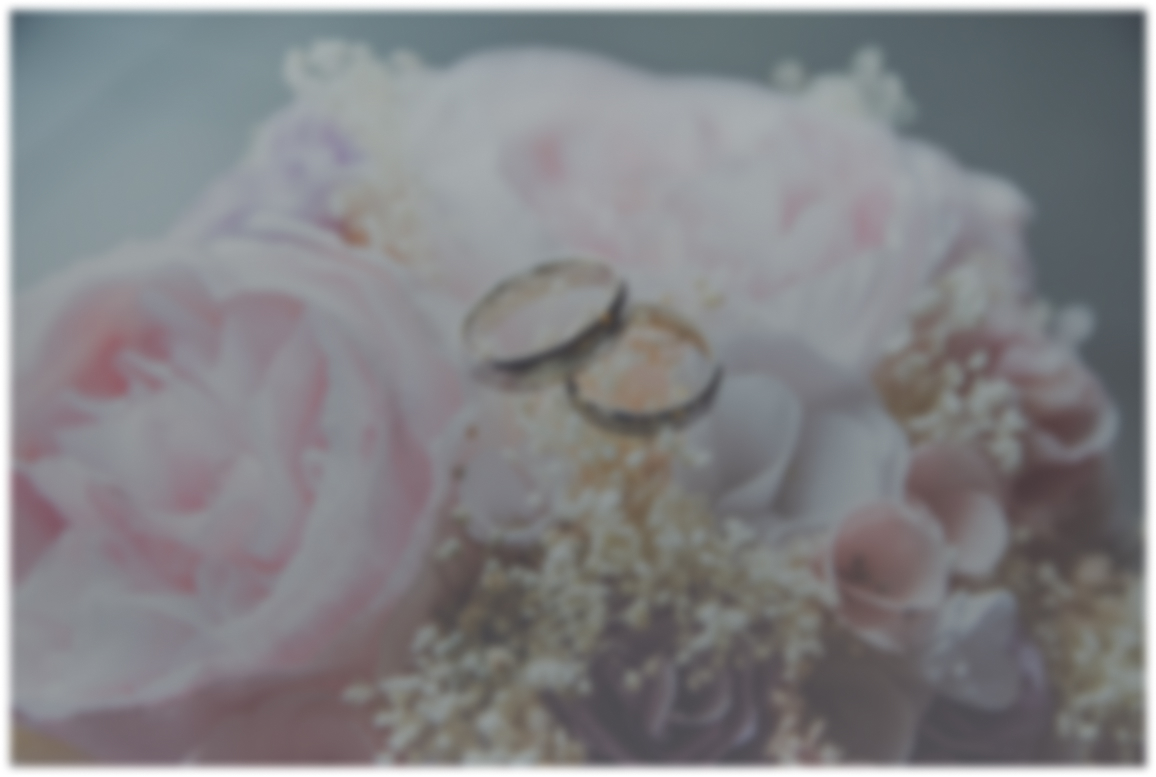
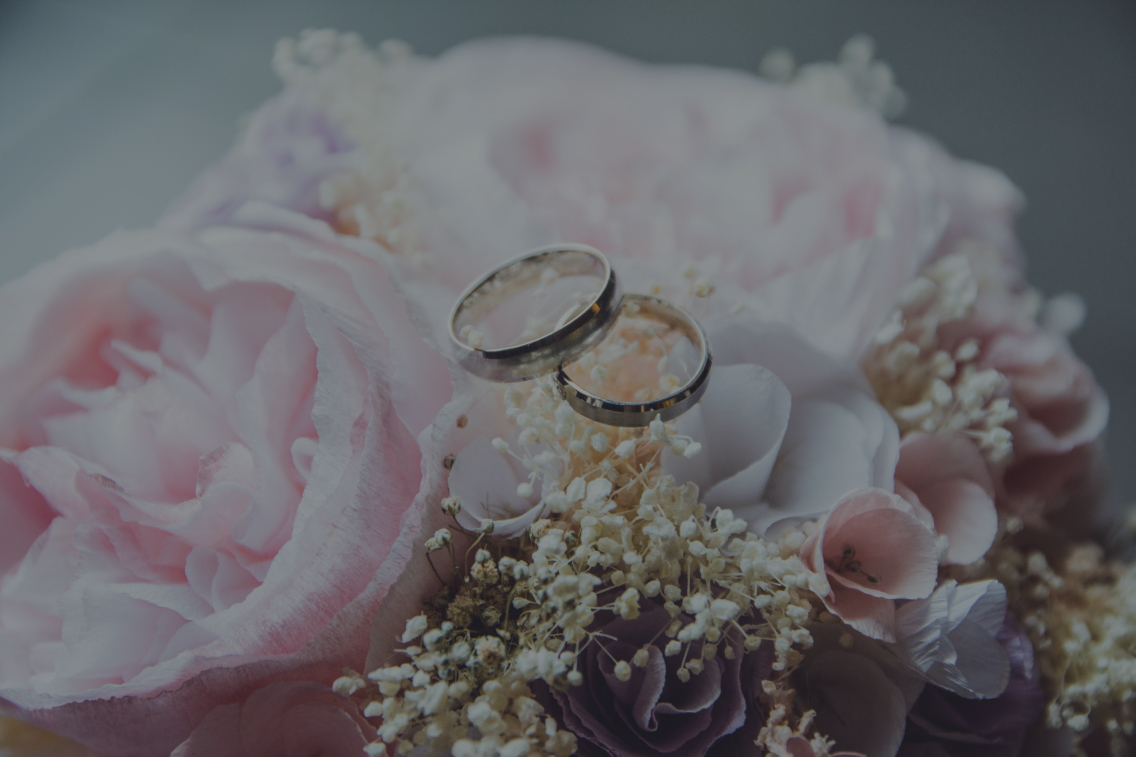
Add files via upload

diff --git a/css/style.css b/css/style.css
@@ -1,14 +1,16 @@
 /* -- Font-- */
-@import url('https://fonts.googleapis.com/css2?family=Kaushan+Script&display=swap');
+@import url('https://fonts.googleapis.com/css2?family=Dancing+Script:wght@400;500;600;700&display=swap');
+@import url('https://fonts.googleapis.com/css2?family=Cinzel+Decorative:wght@400;700;900&display=swap');
+
 /* Color System */
 :root {
-  --bg: #f4f4f4;
-  --texthl:#baa67c;
-  --textsubhl:rgb(107, 107, 107);
-  --textp: #888;
-  --bgbutton: #856e3d;
-  --textbutton: #f4f4f4;
-  --formbg: #d1d1d193;
+  --bg: #06403E;
+  --texthl:#CC902E;
+  --textsubhl: #DEE4E4;
+  --textp: #DEE4E4;
+  --bgbutton: #CE8E2D;
+  --textbutton: #053C3B;
+  --formbg: #f1f1f1;
   --textform: #333;
 }
 
@@ -22,9 +24,9 @@ html {
 body {
   padding: 0;
   margin: 0;
-  background: var(--bg);
+  background: #06403E;
   /* font-family: 'Dancing Script', cursive; */
-  font-family: 'Kaushan Script', cursive;
+  font-family: 'Cinzel Decorative', cursive;
   
 }
 
@@ -54,10 +56,6 @@ a:hover {
   text-decoration: none;
 }
 
-ul li {
-  list-style: none;
-}
-
 
 h1,
 h2,
@@ -69,7 +67,7 @@ h6 {
   padding: 0;
   text-align: center;
   /* font-family: 'Dancing Script', cursive; */
-  font-family: 'Kaushan Script', cursive;
+  font-family: 'Cinzel Decorative', cursive;
 }
 
 p {
@@ -114,17 +112,9 @@ a:hover {
   box-shadow: -2px 7px 10px rgba(51, 51, 51, .3);
 }
 
-
-.pause {
-	margin-left: 0.5em;
-}
-
-/*End mp3 */
-
-
 /* Ornamen  */
 .top-left{
-  width: 200px;
+  width: 50px;
   position: absolute;
   top: 0;
 
@@ -135,8 +125,7 @@ a:hover {
   margin: auto;
 }
 
-
-/* Copy CSS Code From Here */
+/* Can Copy CSS Code From Here */
 
 /*-- Jumbotron --*/
 

diff --git a/index.html b/index.html
@@ -17,7 +17,7 @@
       gtag("config", "UA-178551496-2");
     </script>
 
-    <title>GateMarried | Brown Florist</title>
+    <title>GateMarried | Luxury Traditional</title>
 
     <!-- Meta-Tags -->
     <meta name="viewport" content="width=device-width, initial-scale=1" />
@@ -66,7 +66,7 @@
     <!--Music Fixed Righ -->
     <div class="song" onclick="togglePlay()">
       <div class="title"></div>
-      <div class="pause" ><i class="fa fa-music" style="color: #f4f4f4;"></i></div>
+      <div class="pause" ><i class="fa fa-music" style="color: #053C3B;"></i></div>
       <div class="player">
         <audio id="mymusic" class="audio" src="https://www.dropbox.com/s/ioi66ktnjxibqa5/Ed%20Sheran%20-%20Perfect.mpeg?raw=1" autoplay type="audio" loop=""></audio>
       </div>
@@ -84,11 +84,11 @@
           <ul class="rslide agileits" id="slider1">
             <li>
                 <img src="./images/ornamen/middle-top.png" alt="" class="middle">
-                <h3>Wedding<span> Invitation</span></h3>
+                <h3>Wedding<span>Invitation</span></h3>
                 <h5>25 Desember 2020</h5>
                 <img src="./images/gallery/gallery-3.jpg" alt="" class="couple">
-                <h4><span>Hanna</span> & Dennis</h4>
-                <!-- <img src="./images/ornamen/name.svg" alt="" class="name" width="200"> -->
+                <!-- <h4><span>Nam Don San </span> & Seo Dal Mi</h4> -->
+                <img src="./images/ornamen/name.svg" alt="" class="name" width="200">
                 <div id="countdown">
                   <ul>
                     <li><span id="days"></span>days</li>

diff --git a/css/chocolat.css b/css/chocolat.css
@@ -16,12 +16,12 @@ body{
 }
 #Choco_content{
 	display:none;
-	width:600px;
+	width:800px;
 	height:600px;
 	z-index:1001;
 	position:fixed;
 	left:50%;
-	top:45%;
+	top:50%;
 	margin-left:-400px;
 	margin-top:-300px;
 	border-top:1px solid transparent;/*Yes, adjust image perfectly at the center of a box, don't know why.*/
@@ -50,7 +50,7 @@ body{
 }
 #Choco_container_photo{
 	text-align:center;
-	width:600px;
+	width:800px;
 	height:600px;
 	/*background:url(../images/ajax-loader.gif) center center no-repeat;*/
 }

diff --git a/js/main.js b/js/main.js
@@ -27,12 +27,12 @@ jQuery(document).ready(function ($) {
   function togglePlay() {
     if (audio.paused) {
       audio.play();
-      pause.innerHTML = `<i class="fa fa-volume-up"></i>`
-      pause.style.color = "#ffffff";
+      pause.innerHTML = `<i class="fa fa-volume-up"></i>`;
+      pause.style.color = "#053C3B";
     } else {
       audio.pause();
       pause.innerHTML = `<i class="fa fa-volume-mute"></i>`;
-      pause.style.color = "#ffffff";
+      pause.style.color = "#053C3B";
     }
   }
 
